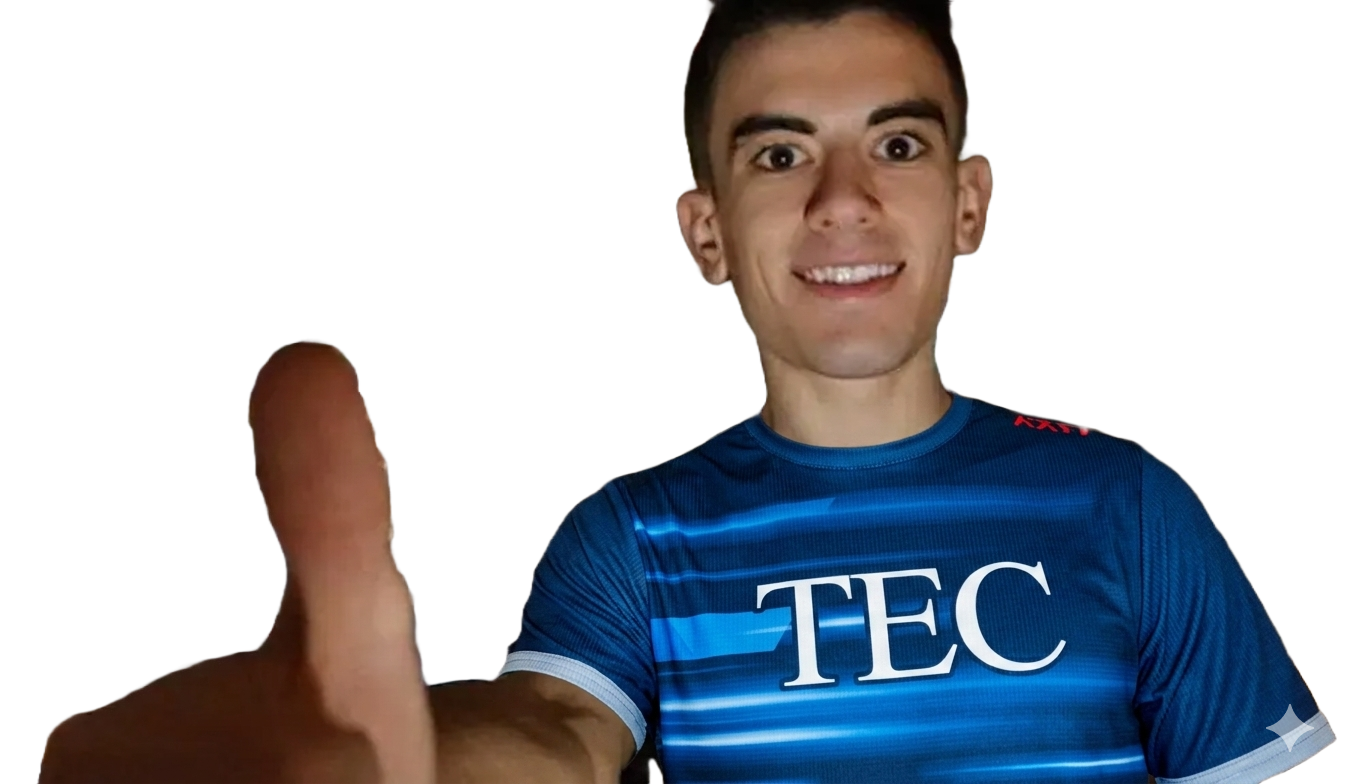
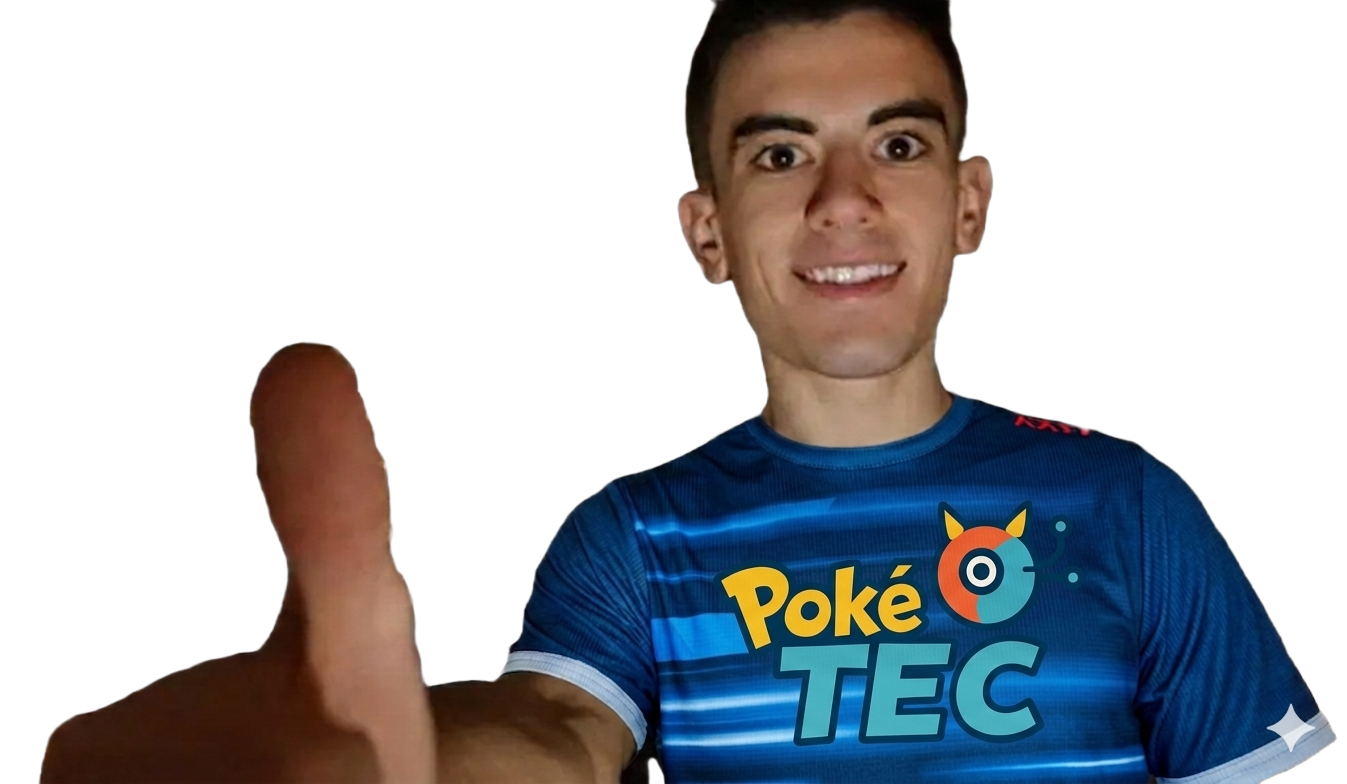
no aguanto

diff --git a/__main__.py b/__main__.py
@@ -3,13 +3,56 @@ from tkinter import ttk
 from PIL import Image, ImageTk
 from helpers import *
 from classes import *
+"""
+COLORES:
+Azul:"#0A3859"
+Amarillo:"#FDC125"
+"""
+def pregame_screen(mode:str, root, canvas):
+    canvas.create_image(int(canvas.cget('width'))//2,int(canvas.cget('height'))//2,anchor='center',image=imagenes.imagenes['fondo']['medium'])
+    widgets = list()
+    canvas.create_image(int(canvas.cget('width'))/4,(int(canvas.cget('height'))//3)+50,anchor='center',image=imagenes.imagenes['entrenadores'][-1])
+    dialogo = Label(root,
+                    text='Selecciona a tus 3 Pokemones!',
+                    anchor='center',
+                    width=30,
+                    height=2,
+                    font=("Pocket Monk", 22, "bold"),
+                    fg="#FDC125",
+                    bg="#0A3859",)
+    widgets.append(dialogo)
+    dialogo.place(x=int(canvas.cget('width'))//8, y=int(canvas.cget('height'))*2//3)
+    pokemon = StringVar(root, value='Pokemon 1')
+    dropdown = ttk.Combobox(root,textvariable=pokemon)
+    dropdown['values'] = tuple(['Pokemon ' + str(i) for i in range(1,11)])
+    dropdown['state'] = 'readonly'
+    dropdown.place(x=(int(canvas.cget('width'))*3/4)-150,y=(int(canvas.cget('height'))//2)-20)
+    imagenes.last_image_id = canvas.create_image(
+        (int(canvas.cget('width'))*3/4),
+        (int(canvas.cget('height'))//2)-150,
+        anchor='center',
+        image=imagenes.imagenes['pokemones'][int(list(pokemon.get())[-1])-1])
+    
+    pokemon.trace_add("write", lambda : display_personaje(canvas, int(list(pokemon.get())[-1])-1, 'pokemones'))
+    widgets.append(dropdown)
 
-def change_screen(root, canvas, widgets, func):
-    canvas.delete('all')
-    for widget in widgets:
-        widget.place_forget()
-    func(root, canvas)
+    confirmar = Button(root,
+                       text='Confirmar',
+                       width=11,
+                       height=1,
+                       font=("Pocket Monk", 22, "bold"),
+                       fg="#FDC125",
+                       bg="#0A3859",
+                       relief="flat",
+                       borderwidth=0,
+                       highlightthickness=0,)
+    widgets.append(confirmar)
+    confirmar.config(command=lambda : change_screen(root=root, canvas=canvas, widgets=widgets, func=game_screen))
+    confirmar.place(x=(int(canvas.cget('width'))*3/4)+4,y=(int(canvas.cget('height'))//2)+25)
+def game_screen(root, canvas):
+    return
 def main_screen(root, canvas):
+    canvas.create_image(int(canvas.cget('width'))//2,int(canvas.cget('height'))//2,anchor='center',image=imagenes.imagenes['fondo']['small'])
     # DRAW FELLAS
     screen_width = int(canvas.cget('width'))
     screen_height = int(canvas.cget('height'))
@@ -25,12 +68,90 @@ def main_screen(root, canvas):
                      borderwidth=0,
                      highlightthickness=0,)
     widgets.append(iniciar)
-    iniciar.config(command=lambda :change_screen(root,canvas, widgets, setup_screen))
+    iniciar.config(command=lambda :change_screen(root=root,canvas=canvas, widgets=widgets, func=setup_screen))
     iniciar.place(x=screen_width/2,y=screen_height*3/4, anchor='center')
+
 def menu_screen(root, canvas):
-    return
-def setup_screen(root, canvas):
+    canvas.create_image(int(canvas.cget('width'))//2,int(canvas.cget('height'))//2,anchor='center',image=imagenes.imagenes['fondo']['medium'])
+    canvas.create_image(int(canvas.cget('width'))/4,(int(canvas.cget('height'))//3)+50,anchor='center',image=jugador['avatar']['medium'])
+    widgets = list()
+    dialogo = Label(root,
+                    text='Hola ' + jugador['nombre'] + '!',
+                    anchor='center',
+                    width=20,
+                    height=2,
+                    font=("Pocket Monk", 30, "bold"),
+                    fg="#FDC125",
+                    bg="#0A3859",)
+    widgets.append(dialogo)
+    dialogo.place(x=(int(canvas.cget('width'))//8), y=(int(canvas.cget('height'))*2//3)+100)
+    menu_sign = Label(root,
+                    text='Menu',
+                    anchor='center',
+                    width=15,
+                    height=2,
+                    font=("Pocket Monk", 44, "bold"),
+                    fg="#FDC125",
+                    bg="#0A3859",)
+    widgets.append(menu_sign)
+    menu_sign.place(x=int(canvas.cget('width'))/2, y=int(canvas.cget('height'))//6)
+    facil_button = Button(root,
+                       anchor='center',
+                       text='Facil',
+                       width=10,
+                       height=1,
+                       font=("Pocket Monk", 30, "bold"),
+                       fg="#FDC125",
+                       bg="#0A3859",
+                       relief="flat",
+                       borderwidth=0,
+                       highlightthickness=0,)
+    widgets.append(facil_button)
+    facil_button.config(command=lambda:change_screen('facil', root=root, canvas=canvas, widgets=widgets, func=pregame_screen))
+    facil_button.place(x=(int(canvas.cget('width'))/2)+120, y=int(canvas.cget('height'))*3//7)
+    medio_button = Button(root,
+                       anchor='center',
+                       text='Medio',
+                       width=10,
+                       height=1,
+                       font=("Pocket Monk", 30, "bold"),
+                       fg="#FDC125",
+                       bg="#0A3859",
+                       relief="flat",
+                       borderwidth=0,
+                       highlightthickness=0,)
+    widgets.append(medio_button)
+    medio_button.place(x=(int(canvas.cget('width'))/2)+120, y=int(canvas.cget('height'))*4//7)
+    medio_button.config(command=lambda:change_screen('medio', root=root, canvas=canvas, widgets=widgets, func=pregame_screen))
+    dificil_button = Button(root,
+                       anchor='center',
+                       text='Dificil',
+                       width=10,
+                       height=1,
+                       font=("Pocket Monk", 30, "bold"),
+                       fg="#FDC125",
+                       bg="#0A3859",
+                       relief="flat",
+                       borderwidth=0,
+                       highlightthickness=0,)
+    widgets.append(dificil_button)
+    dificil_button.place(x=(int(canvas.cget('width'))/2)+120, y=int(canvas.cget('height'))*5//7)
+    dificil_button.config(command=lambda:change_screen('dificil', root=root, canvas=canvas, widgets=widgets, func=pregame_screen))
+
+
+
+def display_personaje(canvas, index:int, personaje:str, size:str):
     global imagenes
+    canvas.delete(imagenes.last_image_id)
+    imagenes.last_image_id = canvas.create_image(
+        ((int(canvas.cget('width'))*3/4)),
+        (int(canvas.cget('height'))//2)-150,
+        anchor='center',
+        image=imagenes.imagenes[personaje][index][size]
+        if personaje == 'entrenadores'
+        else imagenes.imagenes[personaje][index])
+def setup_screen(root, canvas):
+    canvas.create_image(int(canvas.cget('width'))//2,int(canvas.cget('height'))//2,anchor='center',image=imagenes.imagenes['fondo']['medium'])
     widgets = list()
     canvas.create_image(int(canvas.cget('width'))/4,(int(canvas.cget('height'))//3)+50,anchor='center',image=imagenes.imagenes['entrenadores'][-1])
     dialogo = Label(root,
@@ -51,12 +172,22 @@ def setup_screen(root, canvas):
                   fg="#FDC125",
                   bg="#0A3859",)
     widgets.append(entry)
+
     # SELECCION DE AVATAR
     entrenador = StringVar(root, value='Entrenador 1')
-    dropdown = ttk.Combobox(root, textvariable=entrenador)
-    dropdown['values'] = ('Entrenador' + str(i) for i in range(1,6))
+    dropdown = ttk.Combobox(root,textvariable=entrenador)
+    dropdown['values'] = tuple(['Entrenador ' + str(i) for i in range(1,6)])
     dropdown['state'] = 'readonly'
+    dropdown.place(x=(int(canvas.cget('width'))*3/4)-150,y=(int(canvas.cget('height'))//2)-20)
+    imagenes.last_image_id = canvas.create_image(
+        (int(canvas.cget('width'))*3/4),
+        (int(canvas.cget('height'))//2)-150,
+        anchor='center',
+        image=imagenes.imagenes['entrenadores'][int(list(entrenador.get())[-1])-1]['small'])
+    # TRACKEAR LOS CAMBIOS DE ENTRENADOR
+    entrenador.trace_add("write", lambda x,y,z: display_personaje(canvas, (int(list(entrenador.get())[-1])-1), 'entrenadores', 'small'))
     widgets.append(dropdown)
+
     confirmar = Button(root,
                        text='Confirmar',
                        width=11,
@@ -68,15 +199,27 @@ def setup_screen(root, canvas):
                        borderwidth=0,
                        highlightthickness=0,)
     widgets.append(confirmar)
-    confirmar.config(command=lambda :player_config(root, canvas, nombre, entrenador, widgets))
+    confirmar.config(command=lambda :
+                     player_config(root, canvas, nombre.get(), entrenador.get(), widgets) 
+                     if (len(str(nombre.get())) > 3) else 
+                     dialogo.config(text='tu nombre debe tener\nmas de 3 letras',
+                                    width=20,
+                                    height=3))
     entry.place(x=int(canvas.cget('width'))*3/4,y=(int(canvas.cget('height'))//2)-25)
     confirmar.place(x=(int(canvas.cget('width'))*3/4)+4,y=(int(canvas.cget('height'))//2)+25)
+
+
 
 def player_config(root, canvas, nombre:str, entrenador:str, widgets:list):
     global jugador
     jugador['nombre'] = nombre
-    jugador['avatar'] = imagenes.imagenes['entrenadores'][int(list(str(entrenador))[-1])]
-    change_screen(root, canvas, widgets, menu_screen)
+    jugador['avatar'] = imagenes.imagenes['entrenadores'][int(list(entrenador)[-1])-1]
+    change_screen(root=root, canvas=canvas, widgets=widgets, func=menu_screen)
+
+
+
+
+
 # WINDOWS SETTINGS
 root = Tk()
 
@@ -93,7 +236,11 @@ def on_and_off(root):
     is_fullscreen = (not is_fullscreen)
 root.bind('<F11>',lambda evento : on_and_off(root))
 
-
+#COMBOBOX STYLING
+style = ttk.Style()
+root.option_add("*TCombobox*Listbox.font", ("Pocket Monk", 17))
+root.option_add("*TCombobox*Listbox.background", "#0A3859")
+root.option_add("*TCombobox*Listbox.foreground", "#FDC125")
 # CANVAS
 canvas = Canvas(root,width=root.winfo_screenwidth(),height=root.winfo_screenheight())
 canvas.pack(fill='both', expand=True)

diff --git a/helpers.py b/helpers.py
@@ -3,6 +3,15 @@ from PIL import Image, ImageTk
 import os
 BASE_DIR = os.path.dirname(__file__)
 
+def change_screen(*args, root, canvas, widgets, func):
+    canvas.delete('all')
+    for widget in widgets:
+        widget.place_forget()
+    if len(args) > 0 :
+        func(args, root, canvas)
+    else:
+        func(root, canvas)
+
 class Imagenes:
     def __init__(self):
         self.load_images()
@@ -15,14 +24,29 @@ class Imagenes:
         imagenTk = ImageTk.PhotoImage(imagenCruda)
         logo.append(imagenTk)
 
+        fondo = dict()
+        path = os.path.join(BASE_DIR,'assets','bg.png')
+        imagenCruda = Image.open(path)
+        width, height = imagenCruda.size
+        imagenTk = ImageTk.PhotoImage(imagenCruda)
+        fondo['small'] = imagenTk
+        imagenCruda = imagenCruda.resize((int(round(width*1.5)),int(round(height*1.5))))
+        imagenTk = ImageTk.PhotoImage(imagenCruda)
+        fondo['medium'] = imagenTk
+
         entrenadores = list()
         path = os.path.join(BASE_DIR,'assets','avatars')
         for i in os.listdir(path):
-            imagenCruda = Image.open(os.path.join(path, i))
-            width, height = imagenCruda.size
-            imagenCruda = imagenCruda.resize((width//2,height//2))
+            fotos = dict()
+            imagenAbierta = Image.open(os.path.join(path, i))
+            width, height = imagenAbierta.size
+            imagenCruda = imagenAbierta.resize((width//2,height//2))
             imagenTk = ImageTk.PhotoImage(imagenCruda)
-            entrenadores.append(imagenTk)
+            fotos['medium'] = imagenTk
+            imagenCruda = imagenAbierta.resize((width//4,height//4))
+            imagenTk = ImageTk.PhotoImage(imagenCruda)
+            fotos['small'] = imagenTk
+            entrenadores.append(fotos)
         path = os.path.join(BASE_DIR, 'assets', 'presentador.png')
         imagenCruda = Image.open(path)
         width, height = imagenCruda.size
@@ -35,10 +59,24 @@ class Imagenes:
         for i in os.listdir(path):
             imagenCruda = Image.open(os.path.join(path, i))
             width, height = imagenCruda.size
-            imagenCruda = imagenCruda.resize((width//2,height//2))
+            if max(height,width) > 600:
+                factor = int(max(imagenCruda.size)//300)
+                imagenCruda = imagenCruda.resize((width//factor,height//factor))
+            else:
+                imagenCruda = imagenCruda.resize((width//2,height//2))
+            print(imagenCruda.size)
             imagenTk = ImageTk.PhotoImage(imagenCruda)
             pokemones.append(imagenTk)
 
-        self.imagenes = {'logo':[logo],
+        self.imagenes = {'logo':logo,
+                    'fondo':fondo,
                     'entrenadores':entrenadores,
                     'pokemones':pokemones}
+    @property
+    def last_image_id(self):
+        return self._last_image_id
+    
+    @last_image_id.setter
+    def last_image_id(self, value):
+        self._last_image_id = value
+        return

diff --git a/classes.py b/classes.py
@@ -5,8 +5,9 @@ class Pokemon:
         self.defensas = []
         self.vida = 100
 class Entrenador:
-    def __init__(self, nombre:str, pkmLista:list):
+    def __init__(self, nombre:str, avatar, pkmLista:list):
         self.nombre = nombre
+        self.avatar = avatar
         self.pokemones = pkmLista
     @property
     def pokemones(self):
